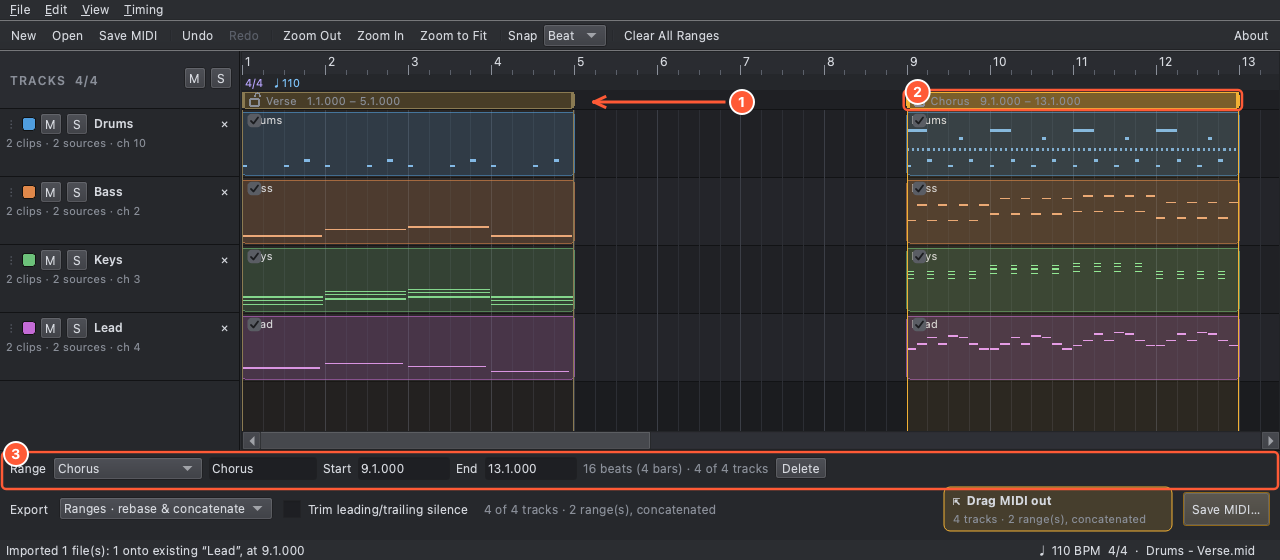
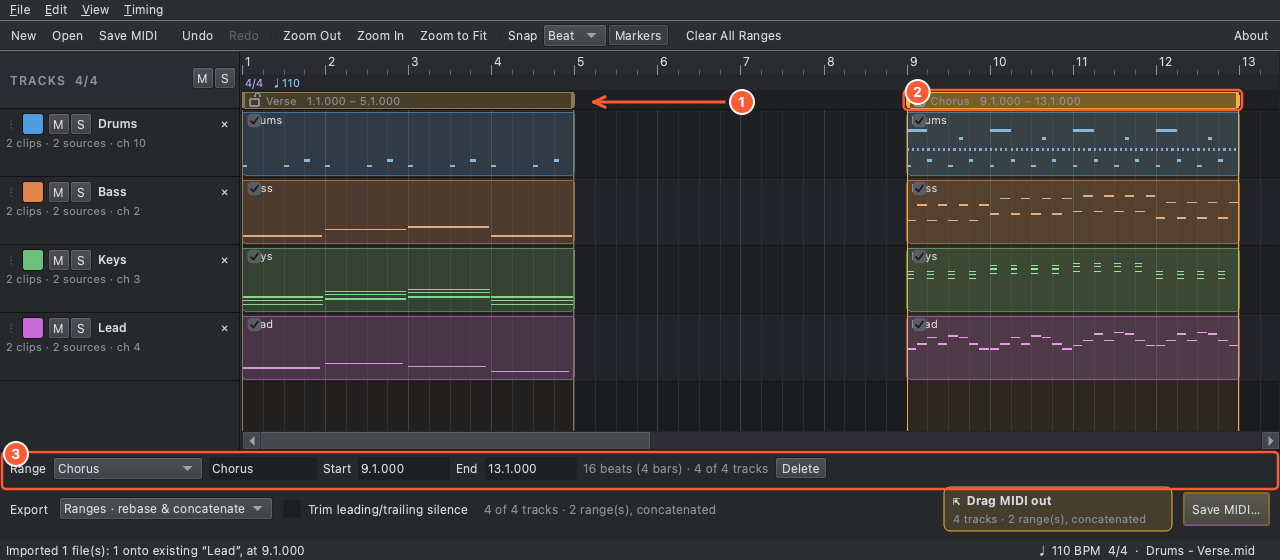
Regenerate README screenshots for 0.3.0: Markers button, marker row, tempo map menu item
The screenshot script now asks the timeline for its header height, uses
its own settings file, and puts markers on the Drums clips for image 01.

diff --git a/tools/make_readme_screenshots.py b/tools/make_readme_screenshots.py
@@ -27,7 +27,7 @@ from midi_interchange.core.export_smf import ExportMode  # noqa: E402
 from midi_interchange.interchange.payload import Payload  # noqa: E402
 from midi_interchange.ui import theme  # noqa: E402
 from midi_interchange.ui.main_window import MainWindow  # noqa: E402
-from midi_interchange.ui.timeline import HEADER_H, RANGE_TOP, RULER_H  # noqa: E402
+from midi_interchange.ui.timeline import RULER_H  # noqa: E402
 
 OUT = os.path.join(ROOT, "docs", "images")
 PPQ = 480
@@ -73,8 +73,8 @@ def _file(name, events, bars=4):
 
 # The verse is sparse, low and slow; the chorus is busy, high and fast, so the two ranges look
 # clearly different on the timeline.
-def drums(chorus):
-    ev = []
+def drums(chorus, marker: str | None = None):
+    ev = [(0, mido.MetaMessage("marker", text=marker, time=0))] if marker else []
     for bar in range(4):
         for beat in range(4):
             t = bar * BAR + beat * PPQ
@@ -212,7 +212,10 @@ class Shot:
 
 # ---------------------------------------------------------------- scenario plumbing
 def new_window(app) -> MainWindow:
-    w = MainWindow()
+    # Own settings file, so the pictures never depend on this machine's settings (Show Markers on).
+    import tempfile
+    from PySide6.QtCore import QSettings
+    w = MainWindow(QSettings(os.path.join(tempfile.mkdtemp(), "screenshots.ini"), QSettings.IniFormat))
     w.resize(1280, 760)
     w.show()
     app.processEvents()
@@ -226,10 +229,15 @@ def drop(w: MainWindow, name: str, data: bytes, bar: int, track: str | None = No
     w.ctl.import_payloads([Payload(f"{name}.mid", data)], Placement(time=F(4 * (bar - 1)), target_track_id=tid))
 
 
-def build_song(w: MainWindow, chorus_bar: int = 9, full_song: bool = False) -> None:
-    """full_song also fills the gap with a Pre-Chorus (bars 5-9) and adds an Outro after the chorus."""
+def build_song(w: MainWindow, chorus_bar: int = 9, full_song: bool = False, markers: bool = False) -> None:
+    """full_song also fills the gap with a Pre-Chorus (bars 5-9) and adds an Outro after the chorus.
+    markers puts "Verse" and "Chorus" markers on the Drums clips, so the header shows its marker row."""
     for fn in (drums, bass, keys, lead):
         name = fn.__name__.capitalize()
+        if markers and fn is drums:
+            drop(w, name + " - Verse", drums(False, "Verse"), 1)
+            drop(w, name + " - Chorus", drums(True, "Chorus"), chorus_bar, name)
+            continue
         drop(w, name + " - Verse", fn(False), 1)
         if full_song:
             drop(w, name + " - Pre-Chorus", prechorus(fn), 5, name)
@@ -294,7 +302,7 @@ def tracks_crop(w: MainWindow) -> QPixmap:
     QApplication.processEvents()
     y = pos_in(w, w.timeline.viewport(), QPoint(0, 0)).y()
     n = len(w.ctl.ws.tracks)
-    return w.grab().copy(QRect(0, y - 2, w.width(), HEADER_H + n * w.timeline.lane_h + 6))
+    return w.grab().copy(QRect(0, y - 2, w.width(), w.timeline.header_h() + n * w.timeline.lane_h + 6))
 
 
 def exported_window(app, results, height=520) -> QPixmap:
@@ -320,7 +328,7 @@ def main() -> None:
     # ---- 1. the window ------------------------------------------------------------
     w = new_window(app)
     w.resize(1280, 640)
-    build_song(w)
+    build_song(w, markers=True)
     ctl = w.ctl
     ctl.add_range(F(0), F(16))
     ctl.update_range(ctl.ws.ranges[0].id, name="Verse")
@@ -331,10 +339,10 @@ def main() -> None:
     tl, tp, ep = w.timeline, w.track_panel, w.export_panel
     vw = tl.viewport().width()
     s.note(QRectF(w.findChild(QToolBar).geometry()).adjusted(2, 2, -2, -2))
-    s.note(vp_rect(w, 0, 0, vw, RULER_H + 16))
-    s.note(vp_rect(w, 0, RANGE_TOP, vw, HEADER_H))
-    s.note(QRectF(wrect(w, tp)).adjusted(1, HEADER_H, -1, 0))
-    s.note(vp_rect(w, 0, HEADER_H, vw, tl.lane_top(4)), x=bar_x(w, 3) + 6, y=vp_rect(w, 0, HEADER_H, 0, 0).top() + 14)
+    s.note(vp_rect(w, 0, 0, vw, tl.range_top()))
+    s.note(vp_rect(w, 0, tl.range_top(), vw, tl.header_h()))
+    s.note(QRectF(wrect(w, tp)).adjusted(1, tl.header_h(), -1, 0))
+    s.note(vp_rect(w, 0, tl.header_h(), vw, tl.lane_top(4)), x=bar_x(w, 3) + 6, y=vp_rect(w, 0, tl.header_h(), 0, 0).top() + 14)
     s.note(wrect(w, ep).adjusted(2, 2, -2, -2))
     s.save("01-window.png")
     w.close()
@@ -363,9 +371,9 @@ def main() -> None:
     ctl.update_range(ctl.ws.ranges[1].id, name="Chorus")
     s = Shot(w)
     tl, ep = w.timeline, w.export_panel
-    s.arrow(bar_x(w, 5) + 150, vp_rect(w, 0, RANGE_TOP, 0, 0).top() + 12, bar_x(w, 5) + 20, vp_rect(w, 0, RANGE_TOP, 0, 0).top() + 12)
-    s.badge(bar_x(w, 5) + 168, vp_rect(w, 0, RANGE_TOP, 0, 0).top() + 12)
-    s.note(vp_rect(w, tl.x_of(32) - 3, RANGE_TOP, tl.x_of(48) + 3, HEADER_H))
+    s.arrow(bar_x(w, 5) + 150, vp_rect(w, 0, tl.range_top(), 0, 0).top() + 12, bar_x(w, 5) + 20, vp_rect(w, 0, tl.range_top(), 0, 0).top() + 12)
+    s.badge(bar_x(w, 5) + 168, vp_rect(w, 0, tl.range_top(), 0, 0).top() + 12)
+    s.note(vp_rect(w, tl.x_of(32) - 3, tl.range_top(), tl.x_of(48) + 3, tl.header_h()))
     s.note(QRectF(wrect(w, ep)).adjusted(2, 2, -2, -ep.height() // 2 - 6))
     s.save("03-ranges.png")
     w.close()
